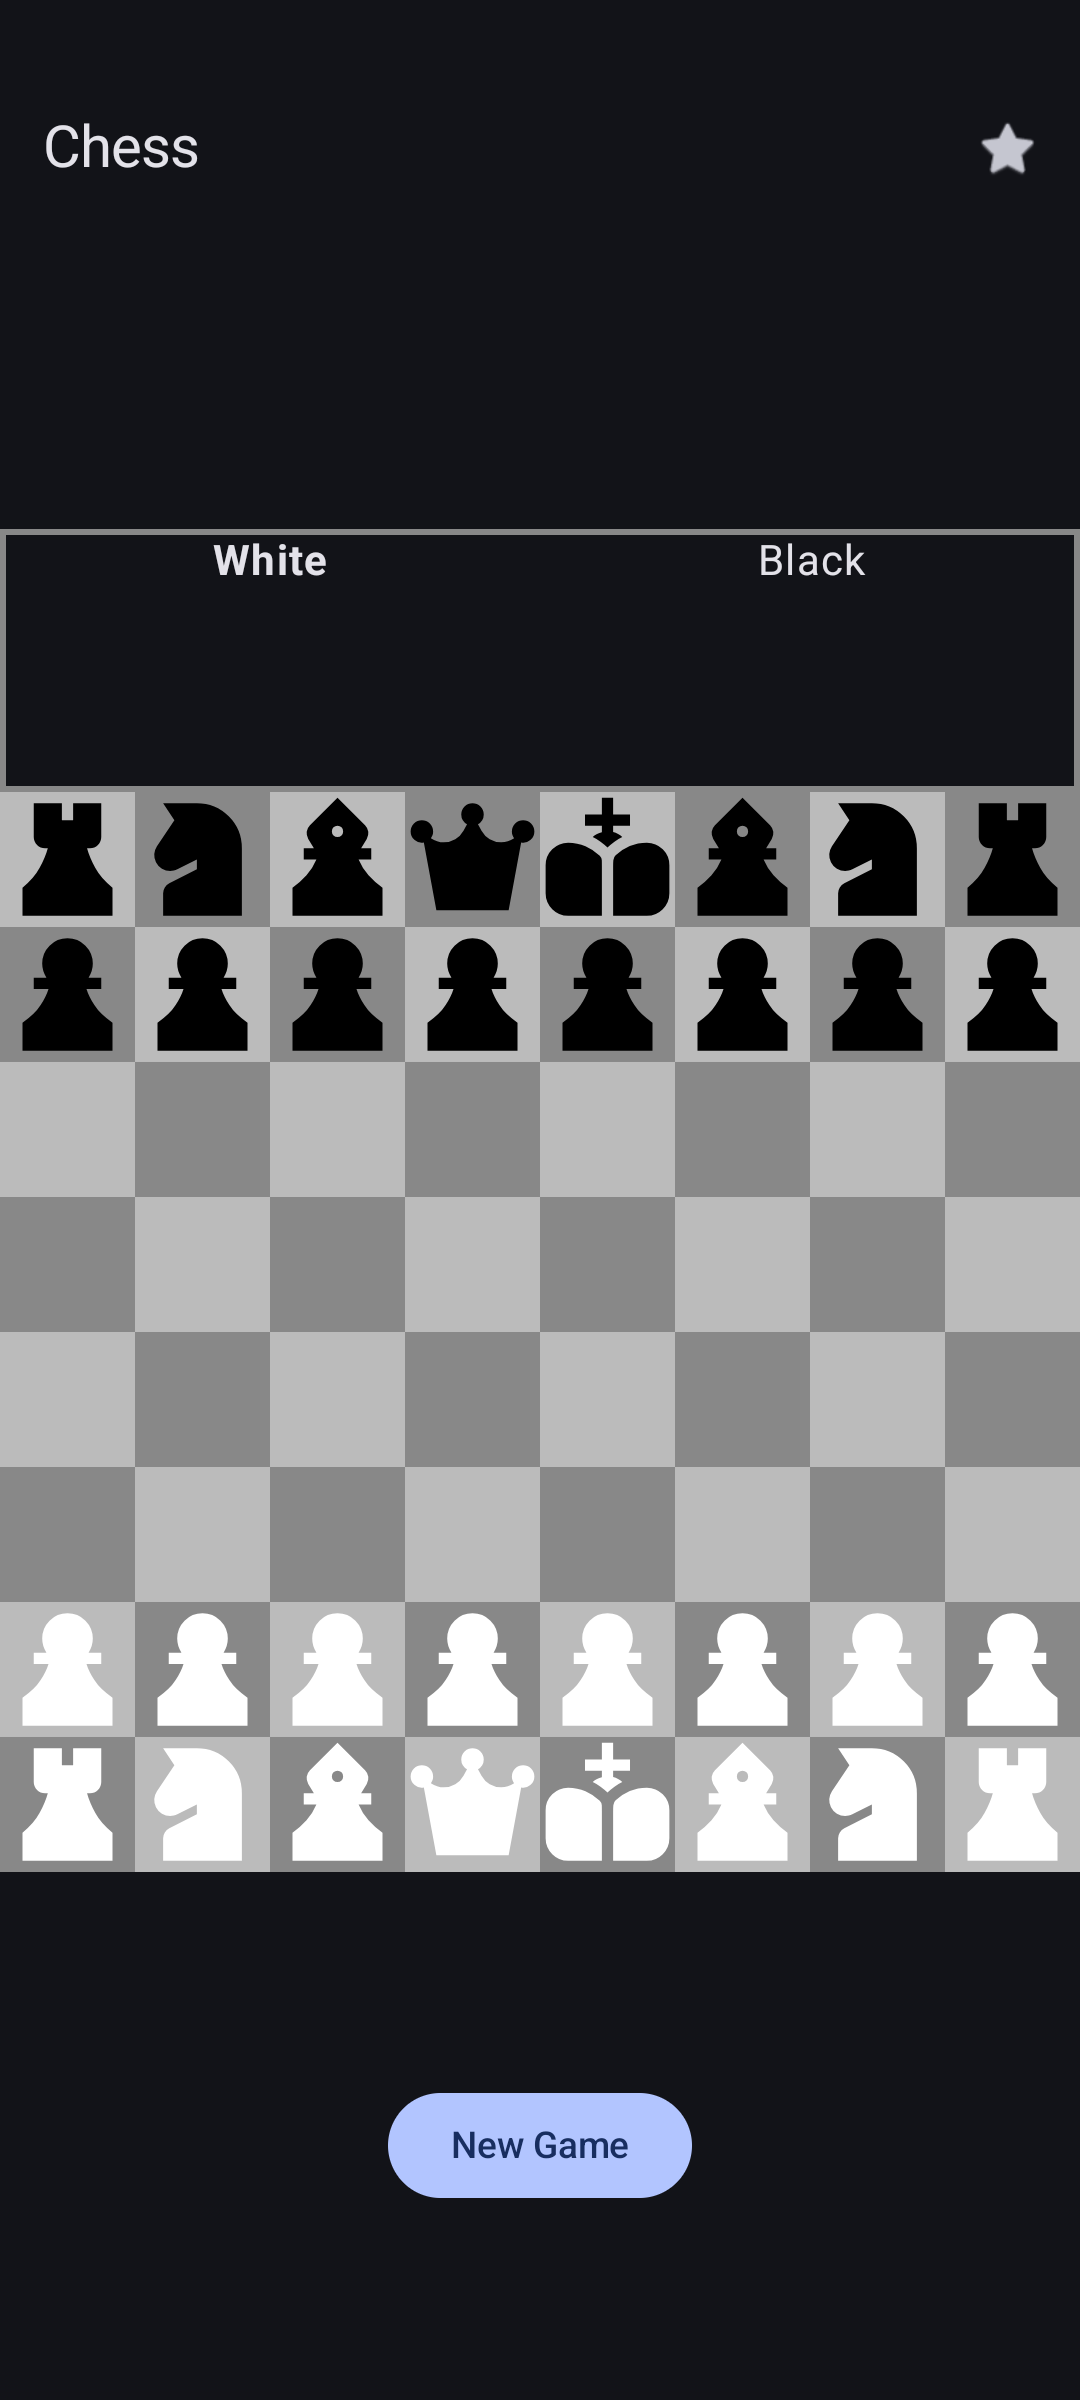
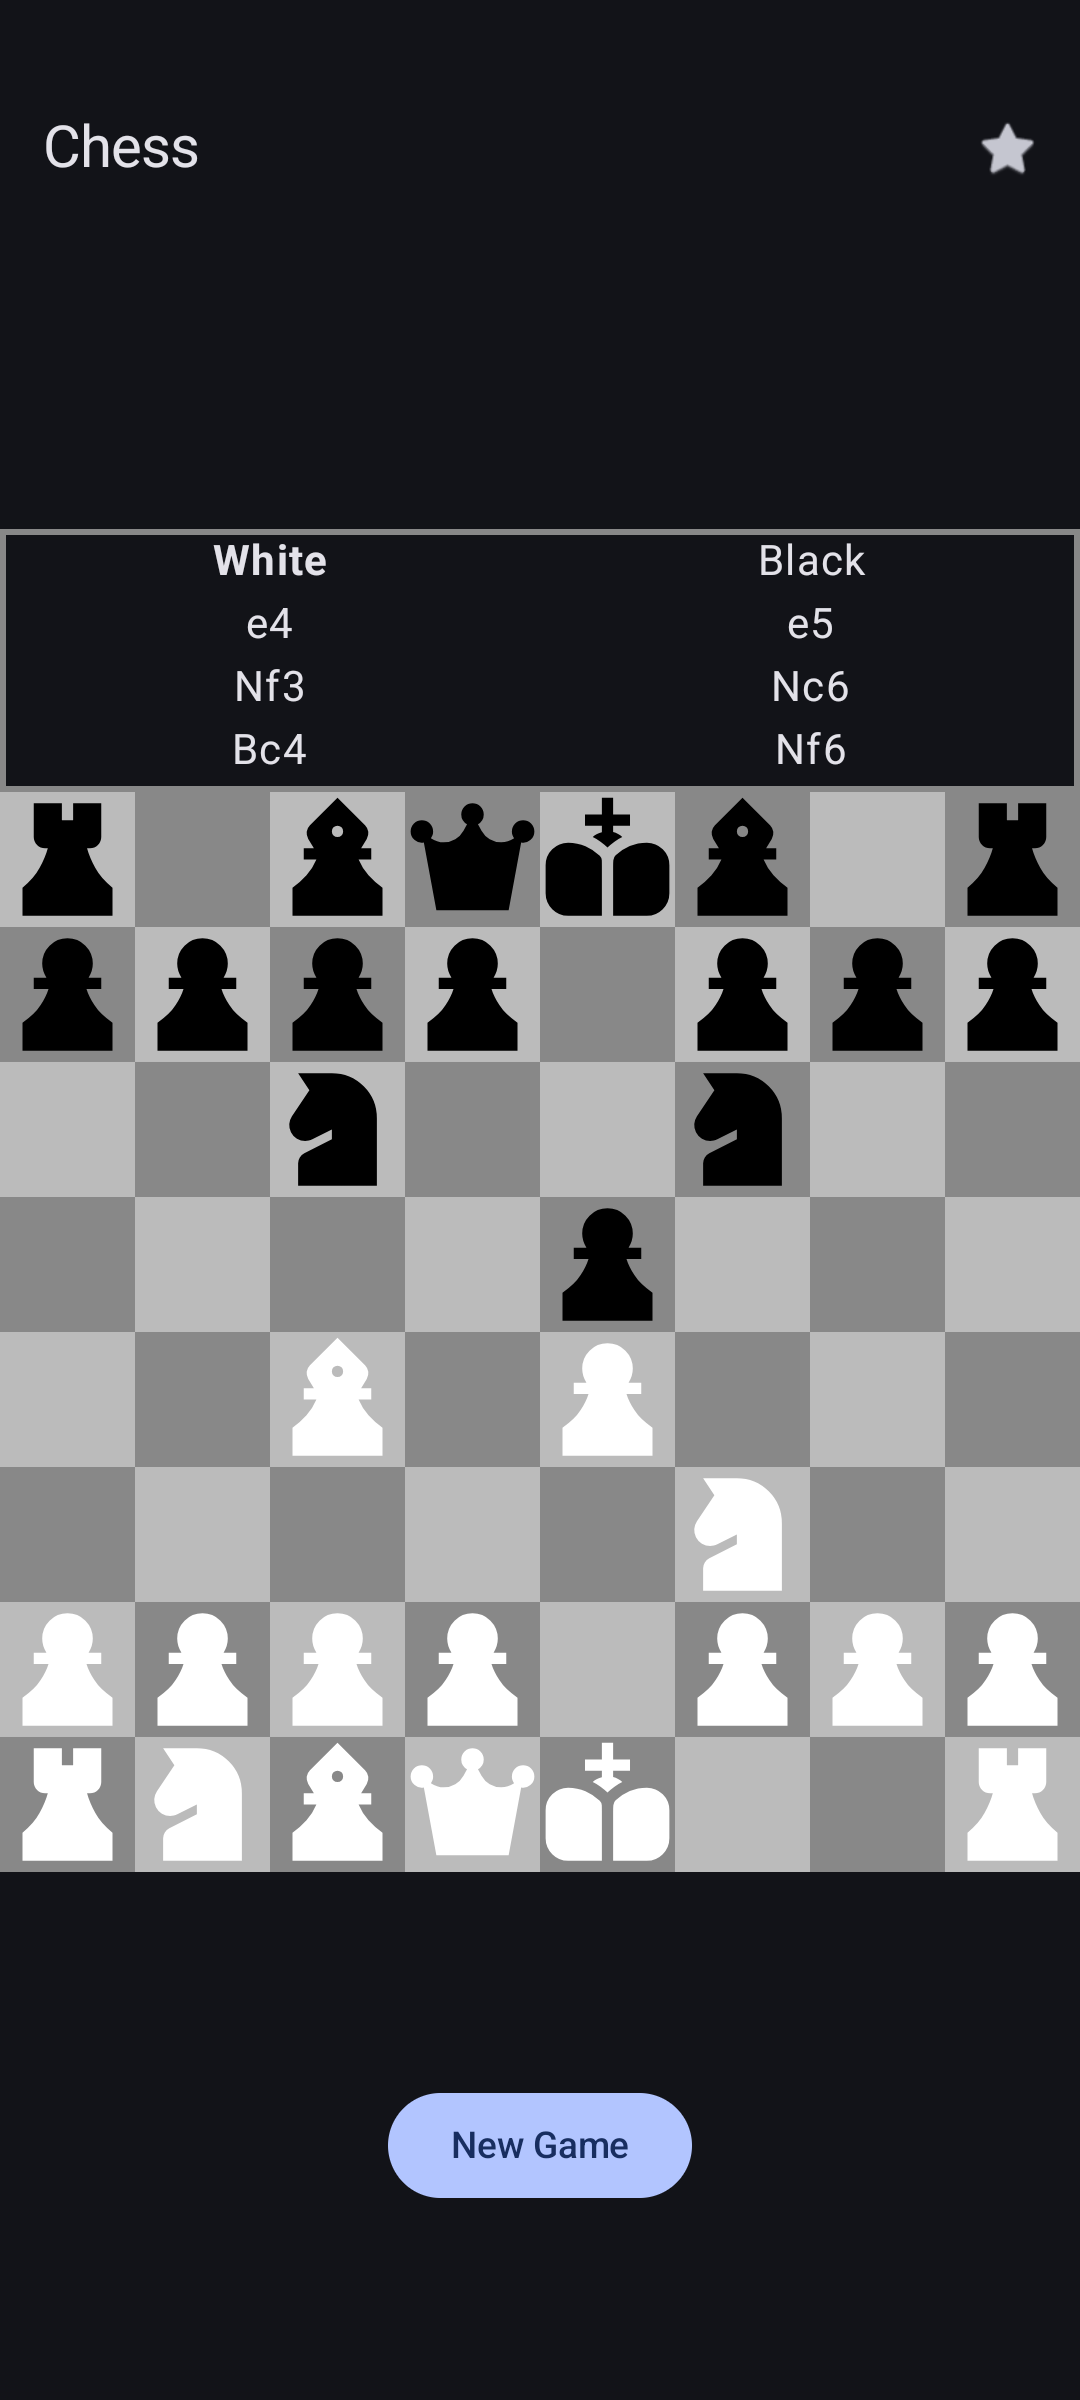
chess: updated automated screenshot generation

diff --git a/games/chess/src/androidTest/java/com/vayunmathur/games/chess/MetadataScreenshots.kt b/games/chess/src/androidTest/java/com/vayunmathur/games/chess/MetadataScreenshots.kt
@@ -7,8 +7,11 @@ import androidx.compose.ui.test.junit4.createAndroidComposeRule
 import androidx.compose.ui.test.onNodeWithText
 import androidx.compose.ui.test.onRoot
 import androidx.compose.ui.test.performClick
+import androidx.lifecycle.ViewModelProvider
 import androidx.test.ext.junit.runners.AndroidJUnit4
 import androidx.test.platform.app.InstrumentationRegistry
+import com.vayunmathur.games.chess.data.Position
+import com.vayunmathur.games.chess.util.ChessViewModel
 import org.junit.Rule
 import org.junit.Test
 import org.junit.runner.RunWith
@@ -16,7 +19,7 @@ import java.io.File
 
 /**
  * Screenshot generator driven by `:games:chess:metadata`. Store screenshots lead with
- * gameplay (the board), followed by the mode-selection dialog.
+ * gameplay (a mid-game board), followed by the mode-selection dialog.
  */
 @RunWith(AndroidJUnit4::class)
 class MetadataScreenshots {
@@ -47,8 +50,27 @@ class MetadataScreenshots {
         // as the second shot advertising the modes.
         snap(2)
 
-        // Start a local 2-player game to show the populated board first.
+        // Start a local 2-player game, then play an Italian-game opening so the board
+        // shows real gameplay rather than the plain starting position.
         composeRule.onNodeWithText(ctx.getString(R.string.two_player_local)).performClick()
+        composeRule.waitForIdle()
+
+        val viewModel = ViewModelProvider(composeRule.activity)[ChessViewModel::class.java]
+        // Row 0 is Black's back rank, row 7 is White's; White moves first.
+        val opening = listOf(
+            Position(6, 4) to Position(4, 4), // e2-e4
+            Position(1, 4) to Position(3, 4), // e7-e5
+            Position(7, 6) to Position(5, 5), // Ng1-f3
+            Position(0, 1) to Position(2, 2), // Nb8-c6
+            Position(7, 5) to Position(4, 2), // Bf1-c4
+            Position(0, 6) to Position(2, 5), // Ng8-f6
+        )
+        composeRule.runOnUiThread {
+            for ((from, to) in opening) {
+                viewModel.onSquareClick(from)
+                viewModel.onSquareClick(to)
+            }
+        }
         composeRule.waitForIdle()
         snap(1)
     }